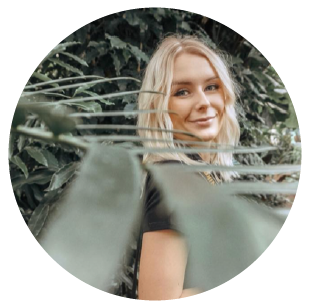
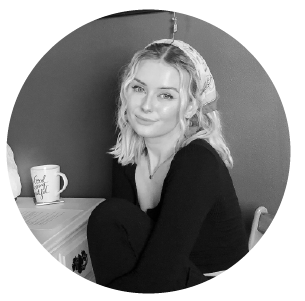
added Jordan's bio and changed image

diff --git a/js/main.js b/js/main.js
@@ -11,7 +11,7 @@
 
 
 		names = ['Spencer', 'Jordan', 'Tessa']
-		description = ['Spencer Mellor, also known as the CEO and founder of Dynamic. Spencer is currently a full time student at Fanshawe College in the Interactive Media Design program which teaches you to build interative websites just like this! He also enjoys long walks on the beach, horse back rides, and sunsets! What a hunk!','jordans info','tessas info']
+		description = ['Spencer Mellor, also known as the CEO and founder of Dynamic 3. Spencer is currently a full time student at Fanshawe College in the Interactive Media Design program which teaches you to build interative websites just like this! He also enjoys long walks on the beach, horse back rides, and sunsets! What a hunk!','Jordan Andrigo - co-founder and creator of Dynamic 3. She is a full time home body, professional cat lady, and she makes a mean caesar. Jordan is currently in her first year of Interactive Media Design at Fanshawe College in downtown London, Ontario and is looking forward to learning more about the web.','tessas info']
 
 	// events go in the middle
 	function showLightBox() {
